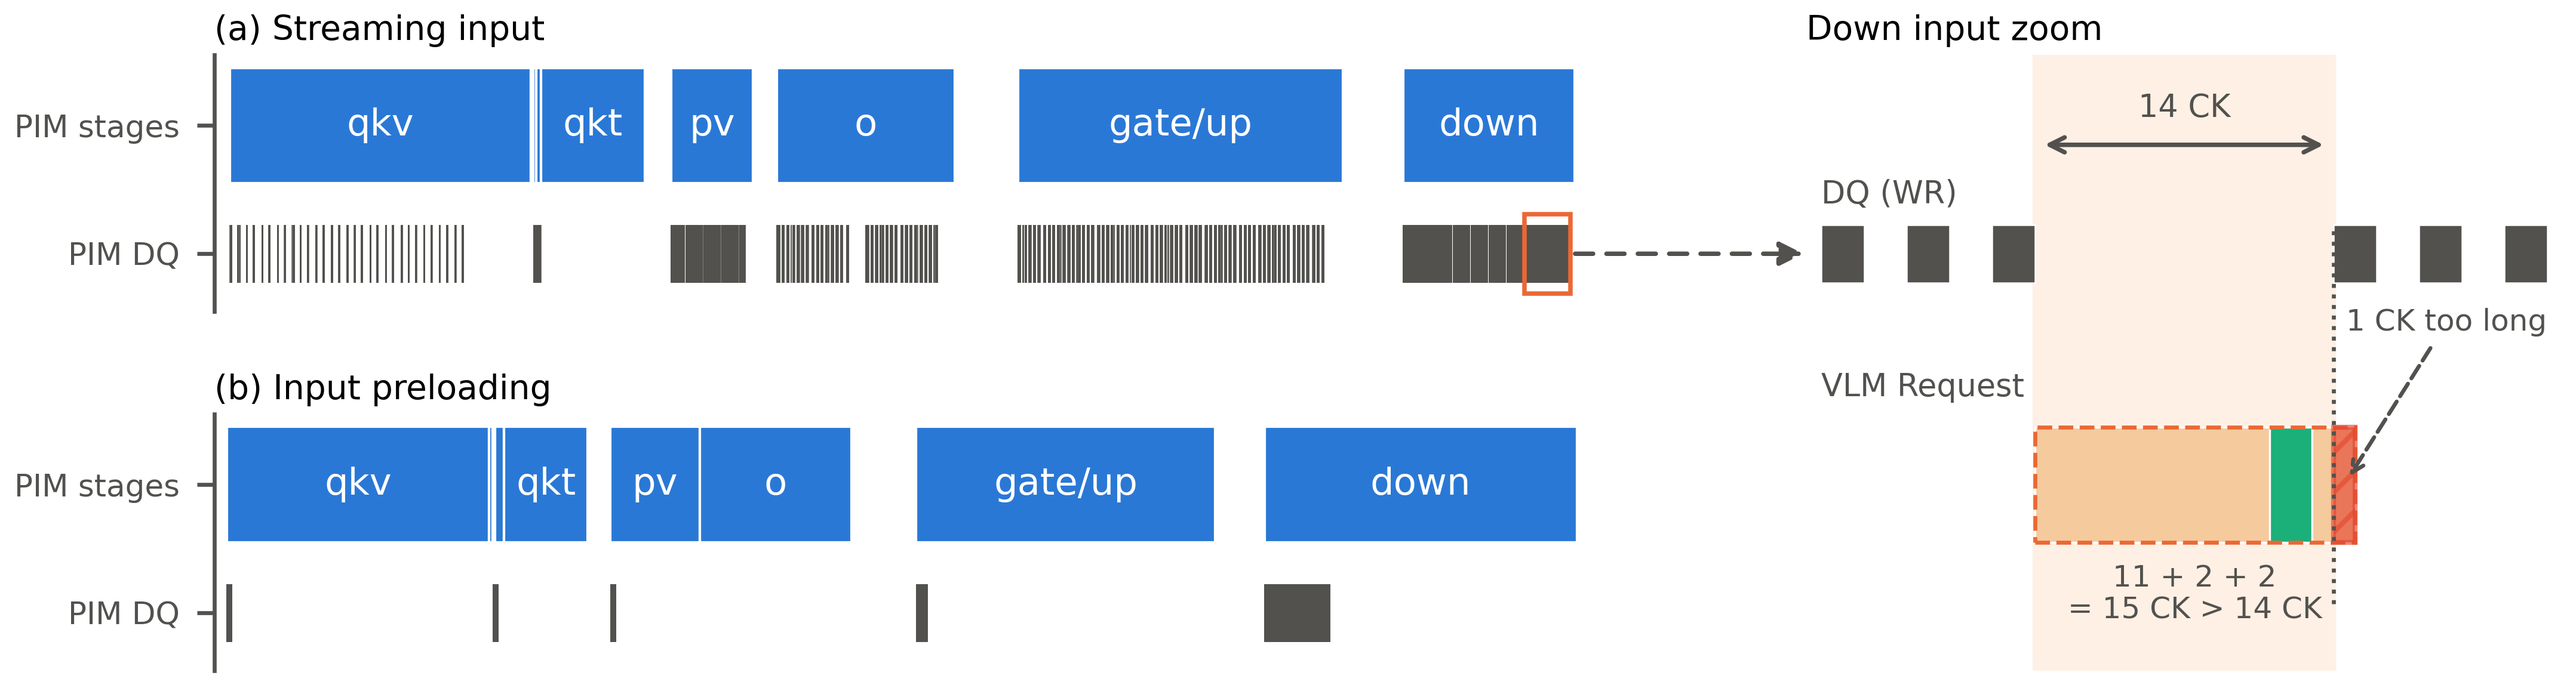
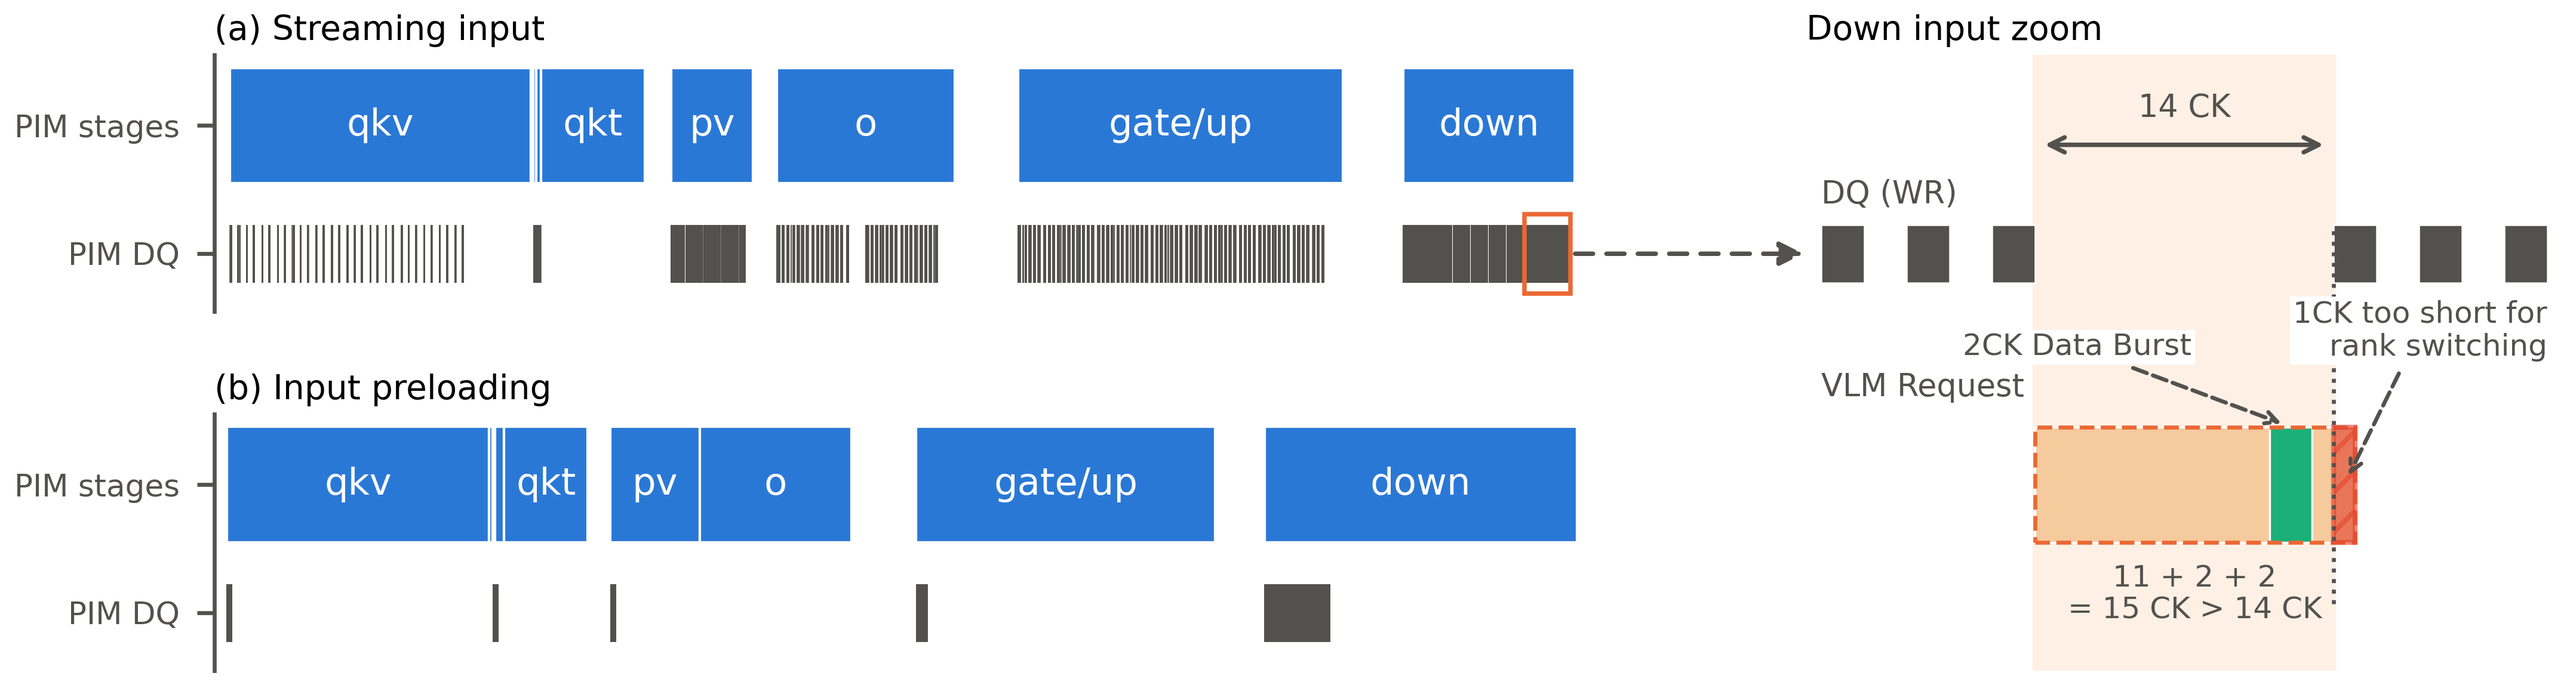
Label DQ data burst and rank-switch timing shortfall

Changed region(s): [[0.7455, 0.4268, 0.994, 0.5793], [0.9008, 0.5793, 0.9318, 0.6707]]

diff --git a/figures/plot-timeline-rates.py b/figures/plot-timeline-rates.py
@@ -112,8 +112,14 @@ def timeline(data, out, detail):
                              facecolor='#e34a33', edgecolor='#e34a33', hatch='///', alpha=0.65))
     zoom.vlines(gap_end, request_bottom-0.10, dq_y+dq_height/2,
                 color=INK, ls=':', lw=0.8)
-    zoom.annotate('1 CK too long', xy=(required_end-0.5, request_y),
-                  xytext=(length, request_y+0.25), ha='right', fontsize=6.0, color=INK,
+    zoom.annotate('2CK Data Burst',
+                  xy=(gap_start+guard_wr_rd+burst/2, request_y+request_height/2),
+                  xytext=(gap_start+2, request_y+0.20), ha='center', va='bottom',
+                  fontsize=6.0, color=INK,
+                  bbox={'facecolor':'white', 'edgecolor':'none', 'pad':0.6},
+                  arrowprops={'arrowstyle':'->', 'color':INK, 'lw':0.8, 'linestyle':'--'})
+    zoom.annotate('1CK too short for\nrank switching', xy=(required_end-0.5, request_y),
+                  xytext=(length, request_y+0.20), ha='right', va='bottom', fontsize=6.0, color=INK,
                   bbox={'facecolor':'white', 'edgecolor':'none', 'pad':0.6},
                   arrowprops={'arrowstyle':'->', 'color':INK, 'lw':0.8, 'linestyle':'--'})
     zoom.text((gap_start+required_end)/2, request_bottom-0.035,
